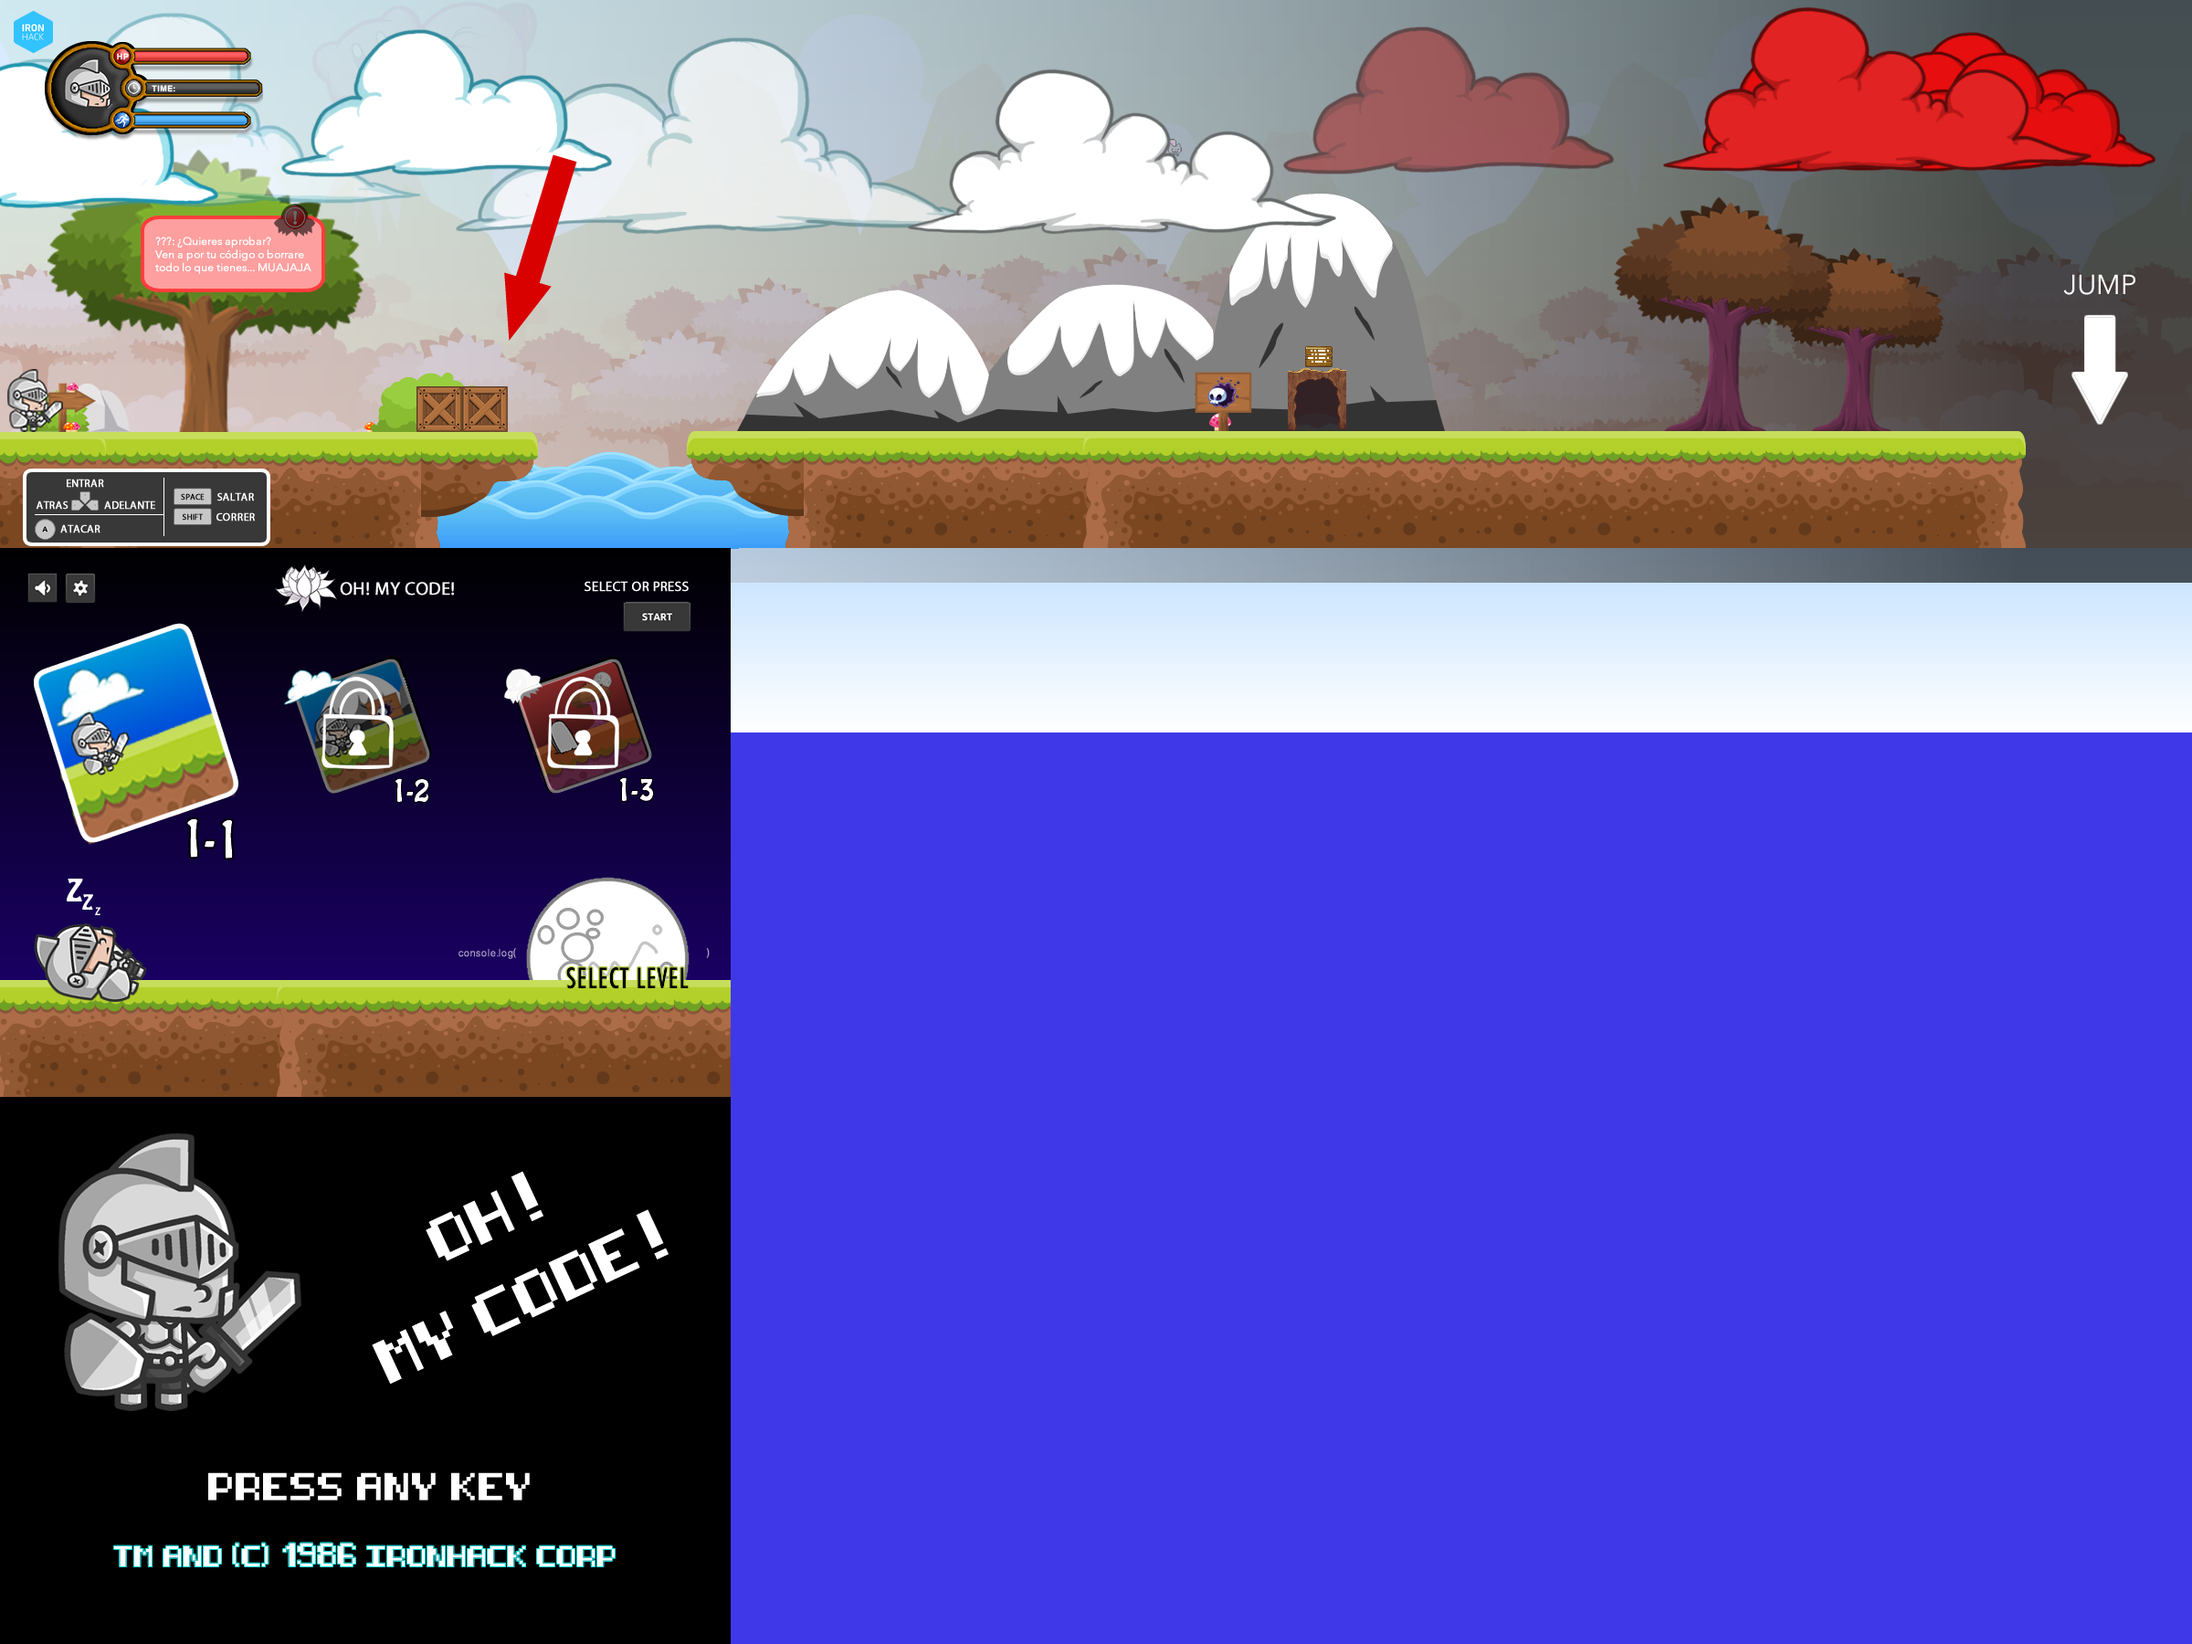
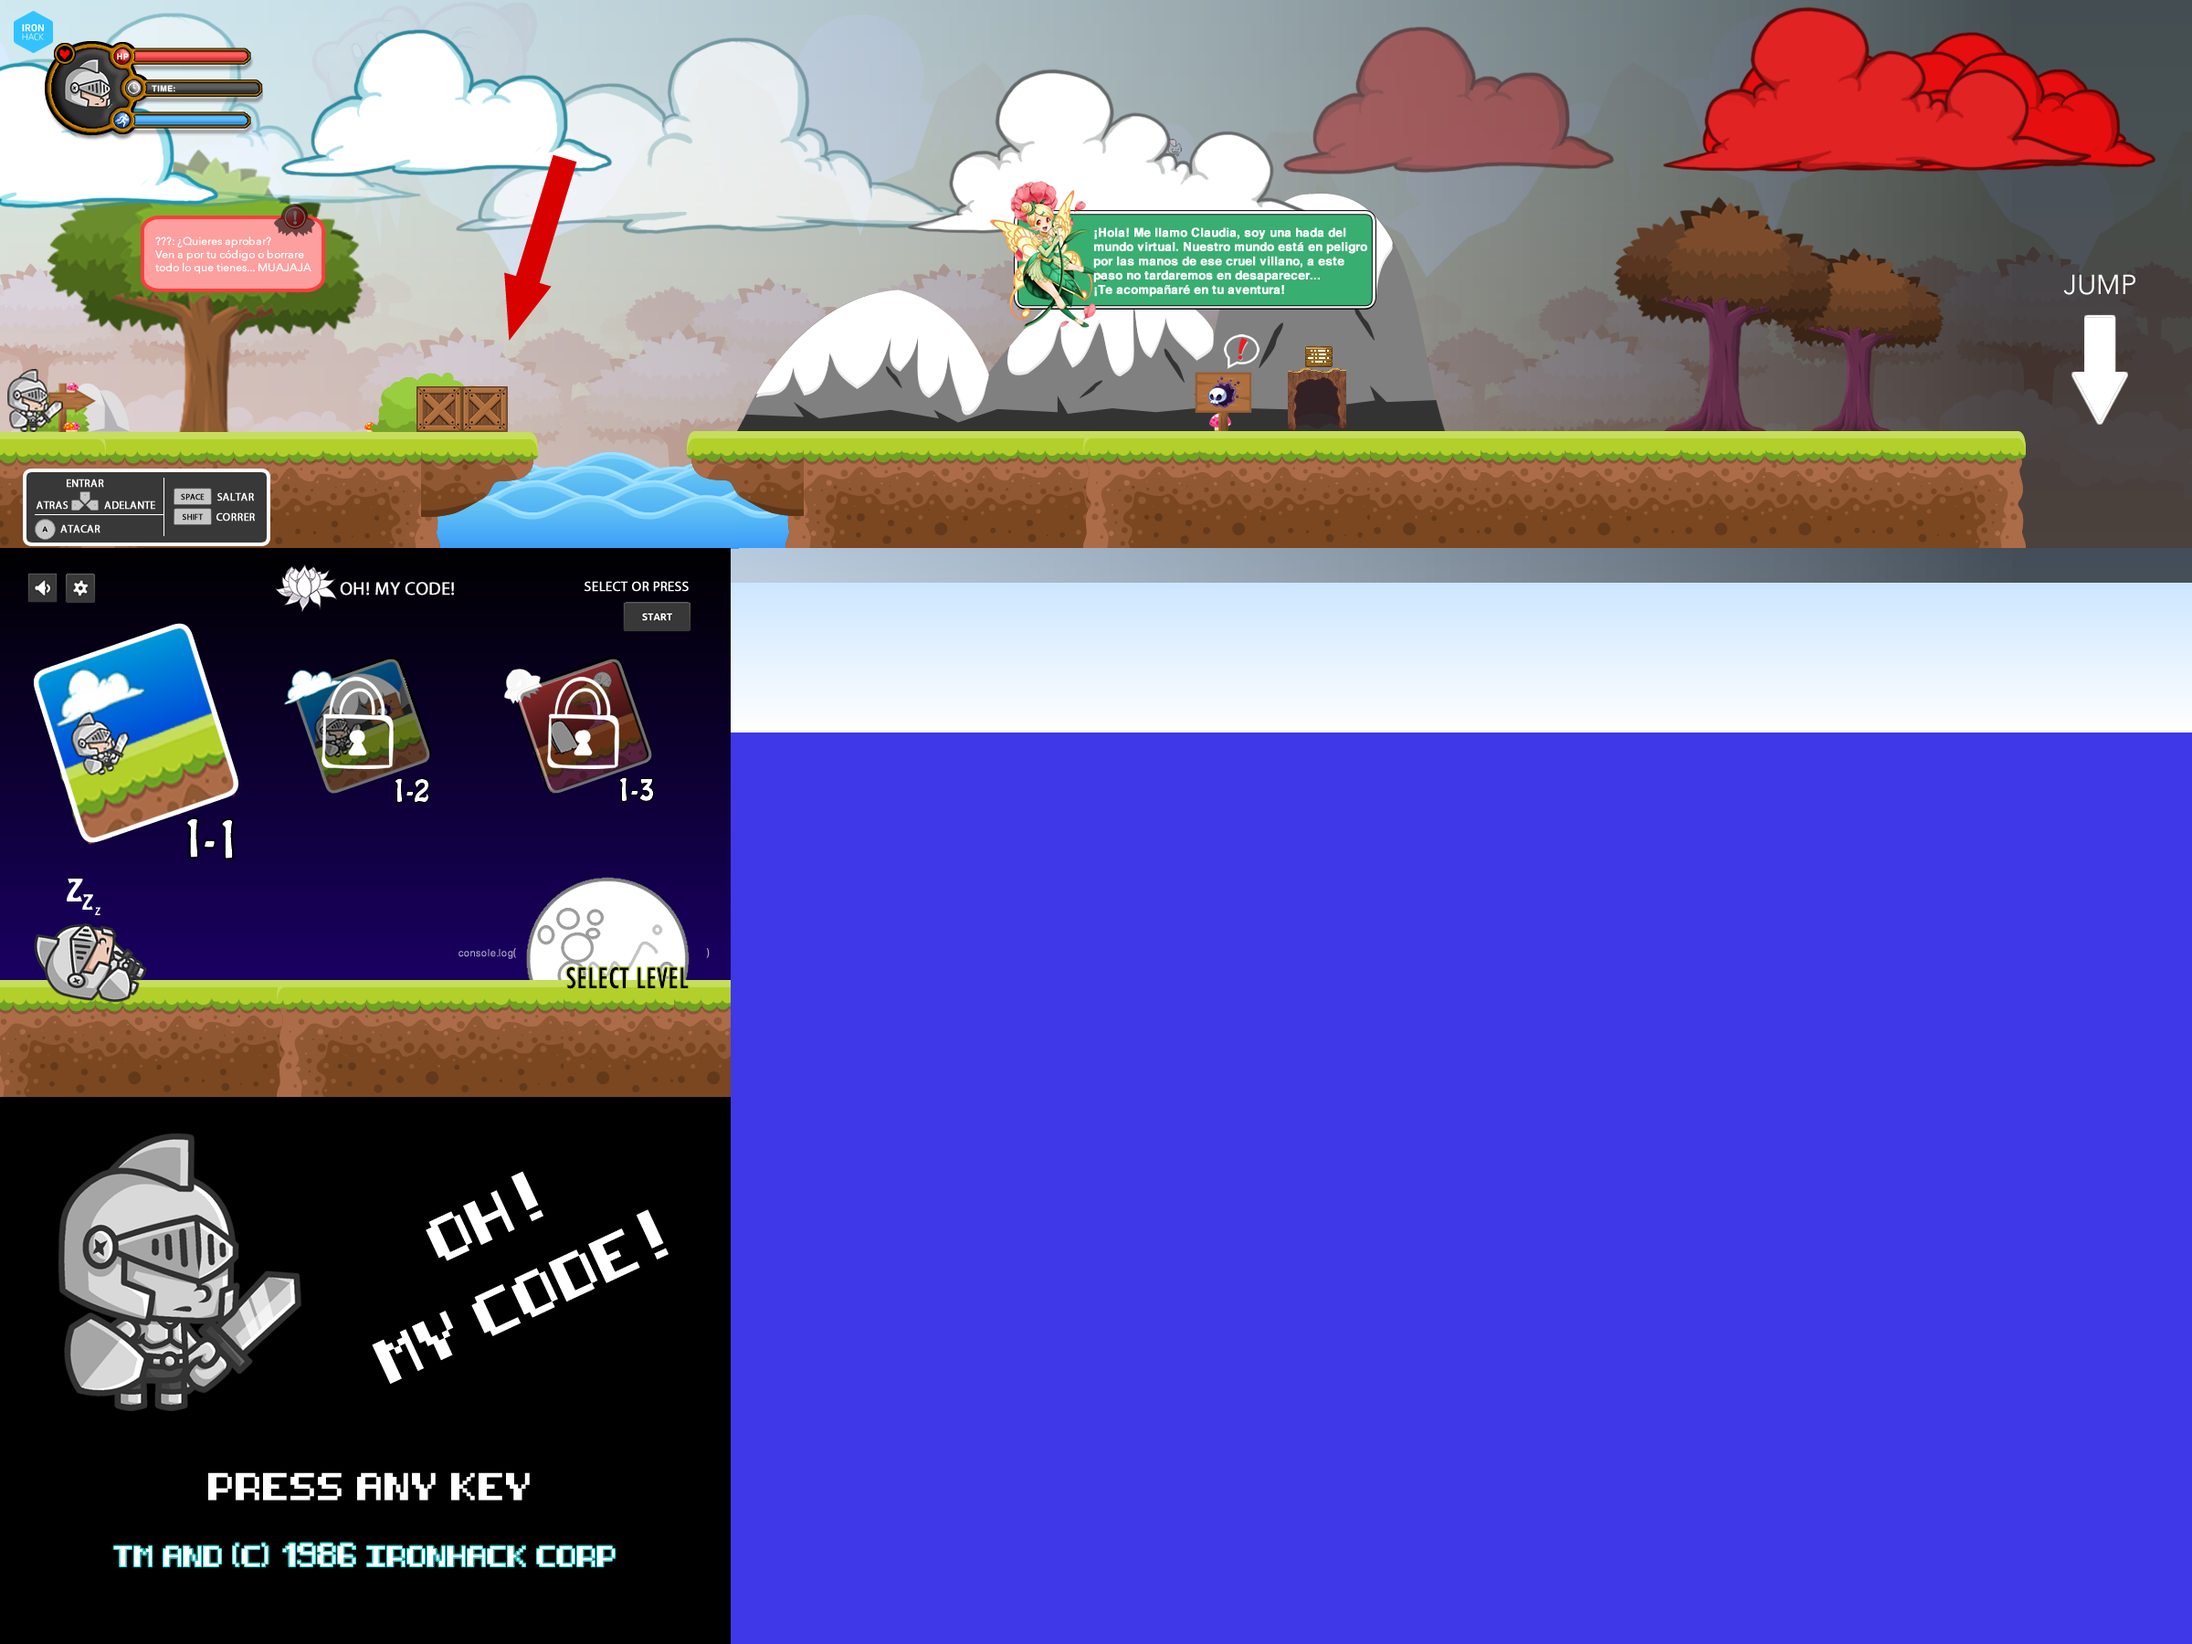
fairy added and interaction

Changed region(s): [[0.4375, 0.0933, 0.625, 0.2178]]

diff --git a/js/main.js b/js/main.js
@@ -1,5 +1,6 @@
 window.onload = function() {
   // Start canvas
+  var upPressed = false; // Detect if key up is pressed;
   var canvas = document.getElementById('game');
   var ctx = canvas.getContext('2d');
   // Start Stage (Background)
@@ -12,6 +13,9 @@ window.onload = function() {
   var imgHUD = stage.createImage('images/hud.png', 109, 239);
   var imgBarLife = stage.createImage('images/barHP.png', 124, 13);
   var imgTiredLife = stage.createImage('images/barTired.png', 124, 13);
+  var imgExclamationLetter = stage.createImage('images/exclamation.png',39,38);
+  var imgFairyChat = stage.createImage('images/chatboxFairy.png',423,162);
+  var imgHeartLife = stage.createImage('images/heart.png',14,14);
   // Start player
   var myHero = new Hero(imgHero, 20, 420, 61, 69);
   // Place instructions
@@ -19,8 +23,9 @@ window.onload = function() {
   //place HUD
   var hud = new Stage(imgHUD, 30, 30, 109, 239);
   // place BARS
-  var lifeBar = new Stage(imgTiredLife, 130, 40, imgBarLife.width, imgBarLife.height);
-  var tiredBar = new Stage(imgBarLife, 130, 110, imgTiredLife.width, imgTiredLife.height);
+  var lifeBar = new Stage(imgBarLife, 130, 40, imgBarLife.width, imgBarLife.height);
+  var tiredBar = new Stage(imgTiredLife, 130, 110, imgTiredLife.width, imgTiredLife.height);
+  var heartHUD = new Stage(imgHeartLife, 43,40, imgHeartLife.width, imgHeartLife.height);
   // paint
   imgBackground.onload = function() {
     requestAnimationFrame(drawAll);
@@ -59,7 +64,9 @@ window.onload = function() {
       if (codeset[65]) {
         myHero.attack();
       }
-      //requestAnimationFrame(drawAll);
+      if (codeset[38]) {
+        upPressed = true;
+      }
     }
   }).on('keyup', function(e) {
     if (e.keyCode in codeset) {
@@ -68,10 +75,10 @@ window.onload = function() {
       myHero.speedMax = myHero.speedNormal;
     }
     if (myHero.y == 420) myHero.idle();
+    upPressed = false;
   });
   // Loop draw and lastTime = now
   var lastTime = 0;
-
   function drawAll(timestamp) {
     var duration = 1000 / 24;
     // return if the desired time hasn't elapsed
@@ -82,9 +89,17 @@ window.onload = function() {
     ctx.clearRect(stage.x, stage.y, stage.height, stage.width);
     stage.drawStage(ctx, stage.img, stage.x, stage.y);
     myHero.drawHero(ctx, myHero.img);
+    if (myHero.fairy == true){
+      // Fairy
+    }
+
     lifeBar.drawImageResized(ctx, imgBarLife, lifeBar.x, lifeBar.y, myHero.life / myHero.life * imgBarLife.width, imgBarLife.height);
     tiredBar.drawImageResized(ctx, imgTiredLife, tiredBar.x, tiredBar.y, myHero.tired / myHero.tiredMax * imgTiredLife.width, imgTiredLife.height);
     hud.drawStage(ctx, hud.img, hud.x, hud.y);
+    console.log("LIVES:"+myHero.lives);
+    if (myHero.lives == 1){
+      heartHUD.drawStage(ctx, imgHeartLife, heartHUD.x,heartHUD.y);
+    }
     instructions.drawStage(ctx, instructions.img, 50, 522);
     myHero.animation();
     myHero.recoverTired();
@@ -97,7 +112,11 @@ window.onload = function() {
         myHero.life = 0;
       }
     }
-    stage.interaction();
+    if(!upPressed){
+      stage.interaction(ctx,imgExclamationLetter,upPressed,myHero);
+    } else {
+      stage.interaction(ctx,imgFairyChat,upPressed,myHero);
+    }
     if (myHero.status == 'knightJumpLeft' || myHero.status == 'knightJumpLeft' && myHero.y == 420) {
       myHero.land();
     } else if (myHero.status == 'knightJumpLeftFinish') {

diff --git a/js/Hero.js b/js/Hero.js
@@ -99,10 +99,11 @@ function Hero(img,x,y,width,height){
   this.speedNormal = 7; // SPEED NORMAL
   this.life = 100; // ACTUAL LIFE
   this.lifeMax = 100; // 100% LIFE
-  this.lives = 0; // NUMBER OF LIVES
+  this.lives = 1; // NUMBER OF LIVES (1/0)
   this.tired = 10; // ACTUAL TIRED
   this.tiredMax = 10; // MAX TIRED
   this.recoveringTime = 0.025;
+  this.fairy = false; // Fairy company
 }
 
 Hero.prototype.drawHero = function(ctx,img){
@@ -144,7 +145,7 @@ Hero.prototype.moveToRight = function(stage){
     if (this.direction != 'Right' ) this.direction = 'Right';
     this.checkAndMoveScreen(stage,this,this.speedMax);
   };
-  console.log("stage x: "+stage.x+" hero.x: "+this.x);
+  console.log("stage x: "+stage.x+" hero.x: "+this.x+"stage y "+stage.y+" hero.y "+this.y);
   //console.log('this.x '+this.x+' stage.x '+stage.x+'stage.width: '+stage.width);
 };
 
@@ -188,7 +189,6 @@ Hero.prototype.jump = function(speedJump,stage){
         x--;
         if (x == -1){
           that.land(y,stage);
-          sw = 0;
           clearInterval(requestId);
         }
       },50);
@@ -217,9 +217,12 @@ Hero.prototype.land = function(y,stage){
     var requestId = setInterval(function (){
       console.log(stage);
       that.checkAndMoveScreen(stage,that,y);
-      that.y += x;
+      if ((that.y += x) >=420){
+        that.y = 420;
+      };
       x++;
       if (x == that.longJump+1){
+        this.y = 420; // FIX
         clearInterval(requestId);
       }
 
@@ -237,22 +240,20 @@ Hero.prototype.animation = function(time){
 
 Hero.prototype.recoverTired = function(){
   if((this.speedMax == this.speedNormal
-    && (this.status == knightIdleLeft || this.status == knightIdleRight
-  || this.status == knightRunLeft || this.status == knightRunRight))
+    && (this.status == knightRunLeft || this.status == knightRunRight))
   && this.tired < this.tiredMax){
-    this.tired += this.recoveringTime
+    this.tired += this.recoveringTime;
+  } else if((this.speedMax == this.speedNormal
+    && (this.status == knightIdleLeft || this.status == knightIdleRight))
+  && this.tired < this.tiredMax){
+    this.tired += this.recoveringTime*2;
 
-
-
-    ;
   }
 };
 
 Hero.prototype.isAlive = function(stage){
   if (this.life <= 0){
     console.log('HA MUERTO');
-  } else{
     this.lives -= 1;
-
   }
 };

diff --git a/js/Stage.js b/js/Stage.js
@@ -26,11 +26,26 @@ Stage.prototype.gravity = function(hero){
       return true;
     };
   };
-
-Stage.prototype.interaction = function(hero){
-  if (this.x>=-963 && this.x <=-858){
-    console.log('Look! a letter!');
-  }else{
-
+var soundMade = 0;
+Stage.prototype.interaction = function(ctx,img,upPressed,hero){
+  // Letter near cave
+  if (this.x>=-910 && this.x <=-858){
+    if (!upPressed){
+    ctx.drawImage(img, 445, 370);
+  } else {
+    // Claudia letter info chatbox
+    ctx.drawImage(img, 250, 200);
+      // if (hero.fairy == false){
+        // Insert fairy
+        // hero.fairy = true;
+      // }
+    }
   }
 };
+  Stage.prototype.diedWithLives = function(hero){
+    this.x = 0;
+    this.y = 0;
+    hero.x = 20;
+    hero.y = 420;
+    hero.life = 100;
+  };
